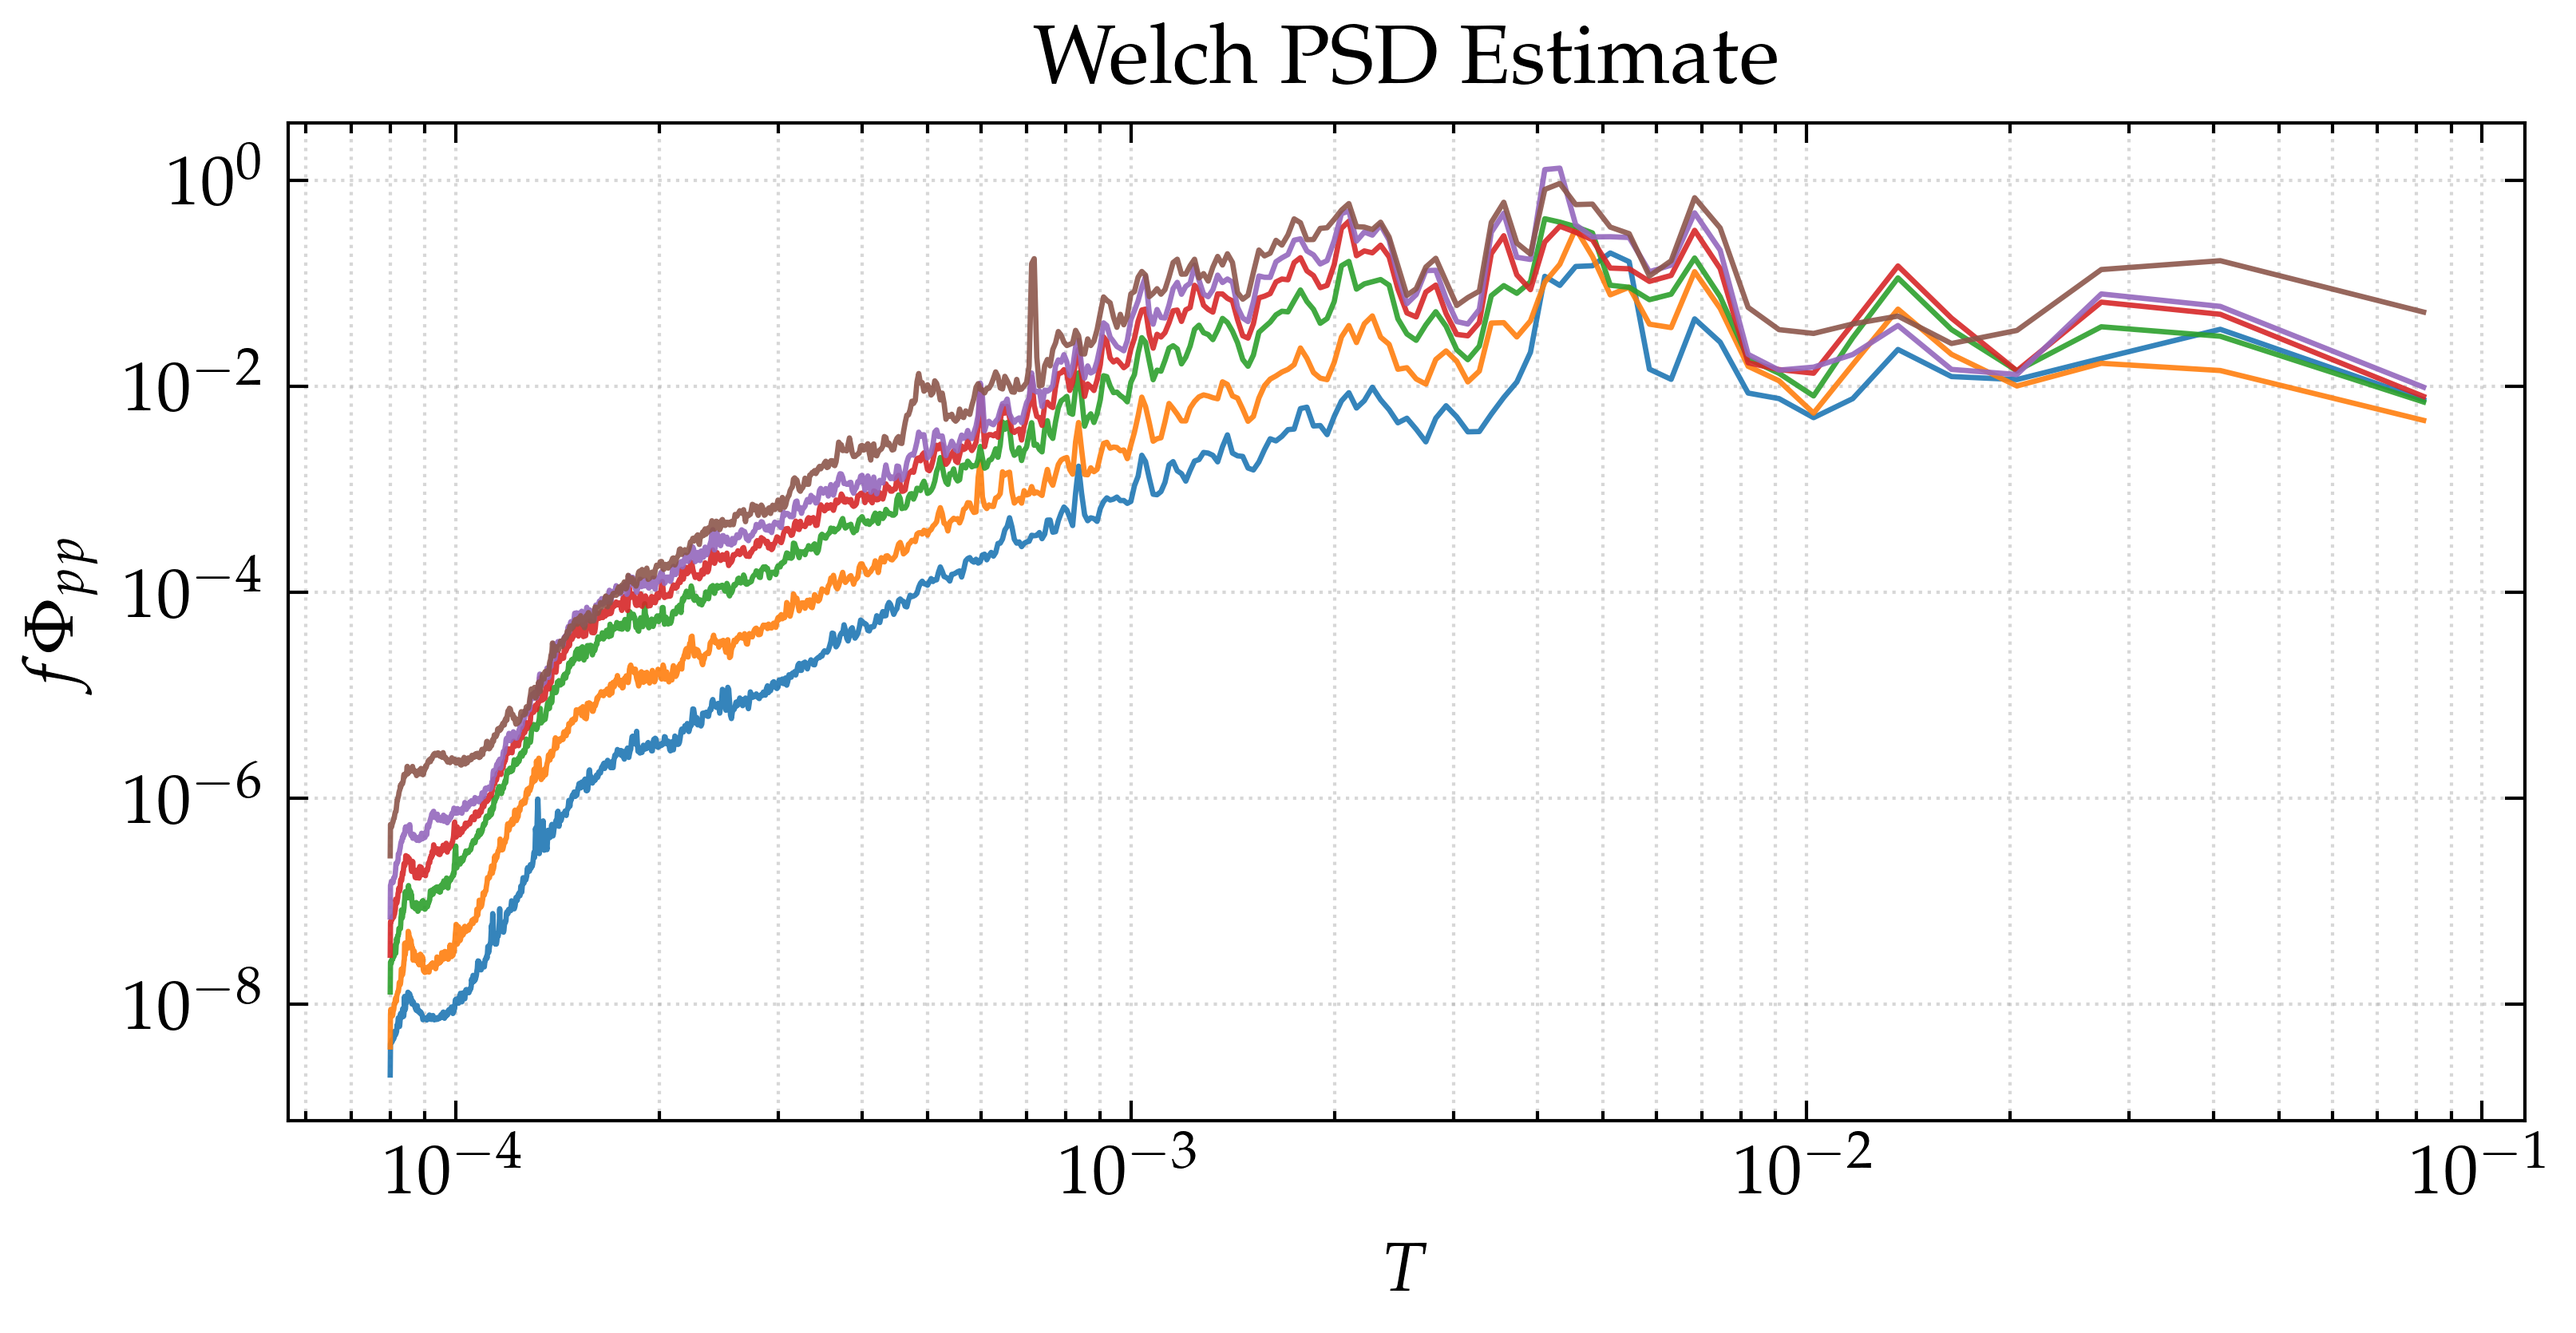
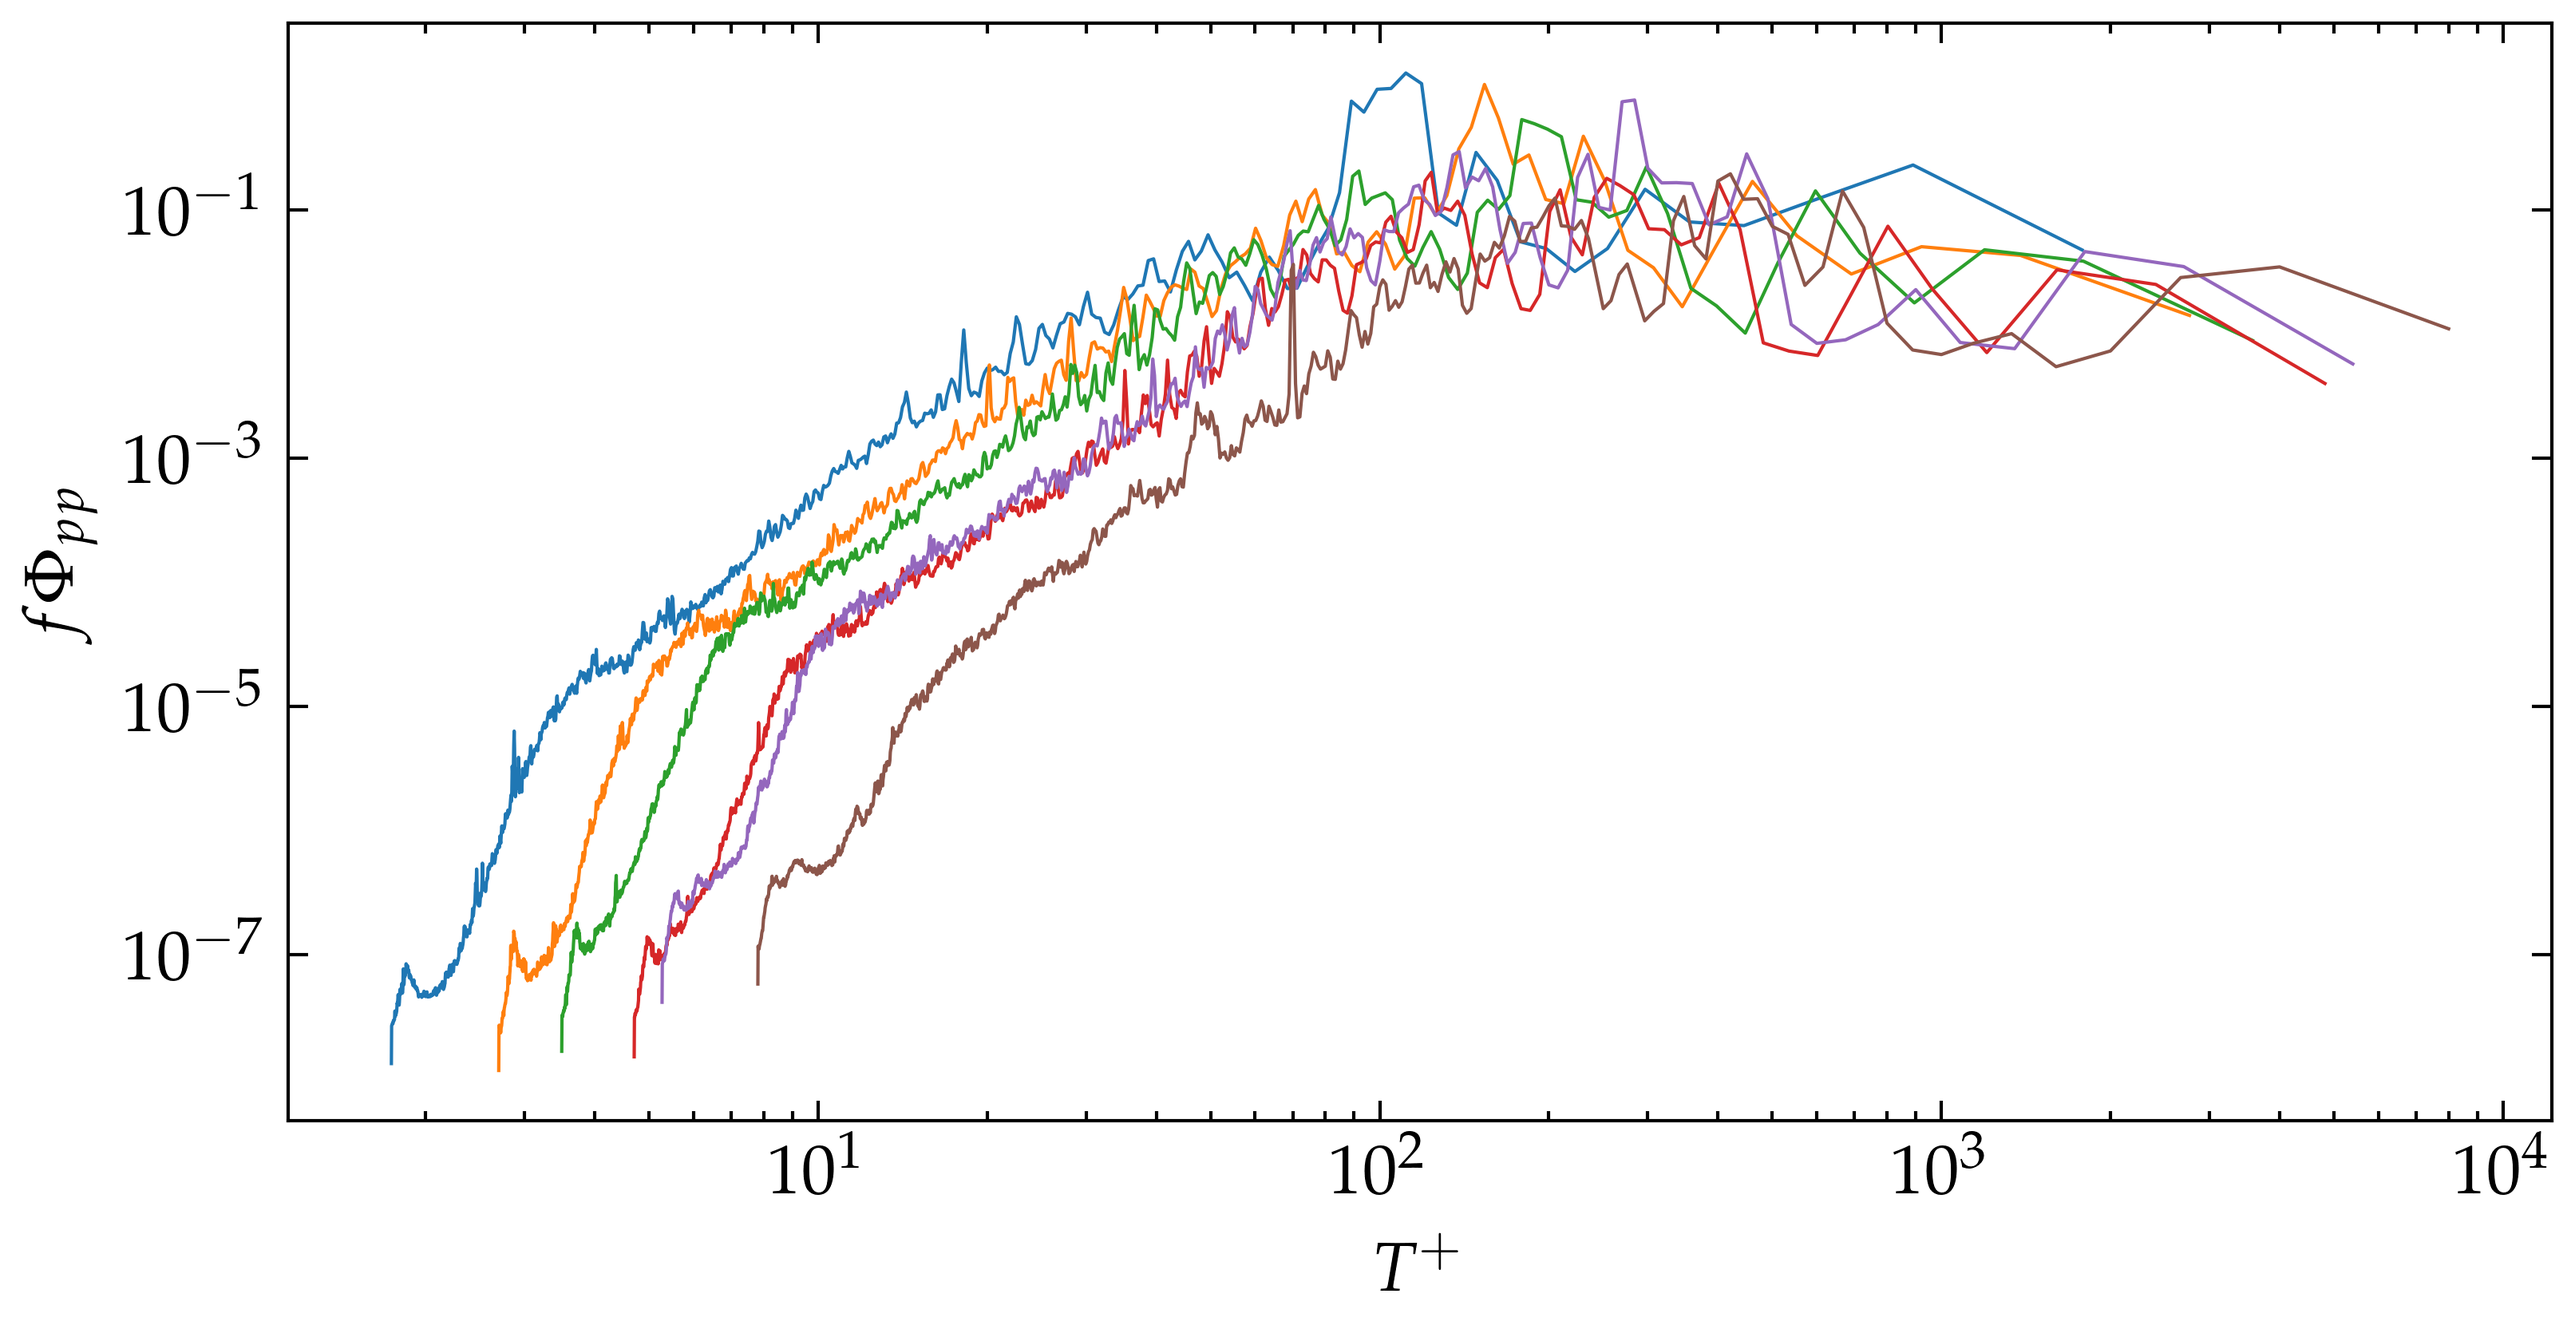
Committed, scaling off

diff --git a/src/raw_spectra.py b/src/raw_spectra.py
@@ -1,39 +1,40 @@
 import numpy as np
+from pathlib import Path
 from scipy.signal import welch
 import scipy.io as sio
 
-from icecream import ic
-import os
-
+# from icecream import ic  # Optional for debugging
 from plotting import plot_rawspectrum
-from plotting import plot_psd_loglog  # new: PSD vs f (log-log) plot
 
-# Some hard coded params
-FS = 25000.0
+# -------------------
+# Constants & defaults
+# -------------------
+FS = 25_000.0
 NPERSEG = 2**11
 WINDOW = "hann"
 DETREND = "constant"
 
+R = 287.0         # J/kg/K
+T = 293.0         # K (adjust if you have per-case temps)
+P_ATM = 101_325.0 # Pa
+PSI_TO_PA = 6_894.76
 
-def load_mat(path):
-    mat = sio.loadmat(path)
-    ic(mat.keys())
-    data = mat['channelData']
-    x_r = np.array(data[:, 0])
-    x_r = x_r - np.mean(x_r)
-    y_r = np.array(data[:, 1])
-    y_r = y_r - np.mean(y_r)
-    return x_r, y_r
-
+def load_mat(path: str, key: str = "channelData"):
+    """Load an Nx2 array from a MATLAB .mat file under `key`."""
+    mat = sio.loadmat(path, squeeze_me=True)
+    if key not in mat:
+        raise KeyError(f"Key '{key}' not found in {path}. Available: {list(mat.keys())}")
+    data = np.asarray(mat[key])
+    if data.ndim != 2 or data.shape[1] < 2:
+        raise ValueError(f"Expected Nx2 array under '{key}', got shape {data.shape} in {path}")
+    # Let welch(detrend='constant') handle mean removal per segment
+    x = data[:, 0].astype(float)
+    y = data[:, 1].astype(float)
+    return x, y
 
 def compute_spec(fs: float, x: np.ndarray, nperseg: int = NPERSEG):
-    """Welch PSD matching MATLAB pwelch settings.
-
-    - window: hann(nperseg)
-    - overlap: 50%
-    - nfft: nperseg
-    - detrend: 'constant' (subtract mean)
-    """
+    """Welch PSD matching MATLAB pwelch-style settings."""
+    nperseg = int(min(nperseg, len(x)))
     f, Pxx = welch(
         x,
         fs=fs,
@@ -47,47 +48,64 @@ def compute_spec(fs: float, x: np.ndarray, nperseg: int = NPERSEG):
     )
     return f, Pxx
 
+def inner_scales(Re_taus, u_taus, nu_atm):
+    """Return delta (from the atm case) and nu for each case via Re_tau relation."""
+    Re_taus = np.asarray(Re_taus, dtype=float)
+    u_taus = np.asarray(u_taus, dtype=float)
+    delta = Re_taus[0] * nu_atm / u_taus[0]
+    nus = delta * u_taus / Re_taus
+    return float(delta), nus
 
 def raw_data():
-    psi = ['atm', '10psi', '30psi', '50psi', '70psi', '100psi']
-    # V ~ 14 m/s (max speed in HPWT as of Aug. 2025)
-    V = 14.0
-    rhos = 
-    Re_taus = [1500, 2500, 3500, 4500, 6000, 8000]
-    u_taus = [0.571, 0.532, 0.492, 0.515, 0.433, 0.481]
-    nu_atm =  1.5e-5  # m^2/s
-    delta =  Re_taus[0] * nu_atm / u_taus[0]  # assume constant delta
-    nu_s = [delta * u_tau / Re for u_tau, Re in zip(u_taus, Re_taus)]
+    """Compute premultiplied inner-scaled wall-pressure spectra and plot."""
+    psi_labels = ['atm', '10psi', '30psi', '50psi', '70psi', '100psi']
+    Re_taus = np.array([1500, 2500, 3500, 4500, 6000, 8000], dtype=float)
+    u_taus  = np.array([0.571, 0.532, 0.492, 0.515, 0.433, 0.481], dtype=float)
+    nu_atm  = 1.5e-5  # m^2/s
 
-    root = 'data/14082025/flow/maxspeed'
-    fn_sweep = [f'{root}/data_{p}.mat' for p in psi]
-    OUTPUT_DIR = "figures/real"
-    PH_path = "figures/PH-NKD"
-    NC_path = "figures/NC-NKD"
+    # Inner scales
+    delta, nu_s = inner_scales(Re_taus, u_taus, nu_atm)
 
-    freqs = []
-    Pyys = []
-    for idx in range(len(psi)):
-        ic(f"Processing {psi[idx]}...")
+    # Densities via ideal gas
+    pressures = np.array([P_ATM] + [P_ATM + float(p[:-3]) * PSI_TO_PA for p in psi_labels[1:]], dtype=float)
+    rhos = pressures / (R * T)
 
-        # Load data
-        x_r, y_r = load_mat(fn_sweep[idx])
-        ic(x_r.shape, y_r.shape)
-        # Welch PSD (match MATLAB pwelch)
+    # IO paths
+    root = Path('data/14082025/flow/maxspeed')
+    fn_sweep = [root / f"data_{p}.mat" for p in psi_labels]
+    outdir = Path("figures/real/spectra")
+    outdir.mkdir(parents=True, exist_ok=True)
+    outfile = outdir / "Pxx.png"
+
+    Tplus_list = []
+    premult_list = []
+
+    for idx, label in enumerate(psi_labels):
+        # ic(f"Processing {label} …")
+        x_r, _y_r = load_mat(str(fn_sweep[idx]))
+
         f, Pxx = compute_spec(FS, x_r)
-        f_plus = f * nu_s[idx] / u_taus[idx]**2
-        Pxx_plus = Pxx * u_taus[idx]**2 / nu_s[idx]
-        # ic(f.shape, Pxx.shape)
-        freqs.append(f)
-        Pyys.append(Pxx)
-    # Ensure output directory exists (including nested 'spectra')
-    outfile = f"{OUTPUT_DIR}/spectra/Pxx.png"
-    # os.makedirs(os.path.dirname(outfile), exist_ok=True)
 
-    Times = [(1/fi) for fi in freqs]
-    spec_fphi = [fi * Pi for fi, Pi in zip(freqs, Pyys)]
-    plot_rawspectrum(Times, spec_fphi, outfile)
+        # Remove DC to avoid T^+ = inf
+        if f[0] == 0.0:
+            f = f[1:]
+            Pxx = Pxx[1:]
 
+        # Inner variables
+        f_plus = f * nu_s[idx] / (u_taus[idx] ** 2)                        # f^+
+        Pxx_plus = Pxx / ((u_taus[idx] ** 2 * rhos[idx]) ** 2)             # PSD of p^+ [1/Hz]
+        premult = f * Pxx_plus                                             # == f^+ Φ^+(f^+) (dimensionless)
+        T_plus = 1.0 / f_plus                                              # T^+
+
+        Tplus_list.append(T_plus)
+        premult_list.append(premult)
+
+    # The plotting function should label:
+    # x-axis: r"$T^+ = 1/f^+$"
+    # y-axis: r"$f^+\Phi_{p^+p^+}$ (dimensionless)"
+    plot_rawspectrum(Tplus_list, premult_list, str(outfile))
+
+    return Tplus_list, premult_list, str(outfile)
 
 if __name__ == "__main__":
     raw_data()

diff --git a/src/plotting.py b/src/plotting.py
@@ -107,9 +107,9 @@ def plot_rawspectrum(Ts, spec, outfile):
         ax1.plot(T, spec[idx], ls='-', lw=0.5, color=colors1[idx])
     ax1.set_xscale("log")
     ax1.set_yscale("log")
-    ax1.set_xlim(1e-4, 1e-1)
+    # ax1.set_xlim(1e-4, 1e-1)
     # ax1.set_ylim(0, 2)
-    ax1.set_xlabel("$T$")
+    ax1.set_xlabel("$T^+$")
     ax1.set_ylabel(r"$f\Phi_{pp}$")
     plt.tight_layout()
     plt.savefig(outfile)
